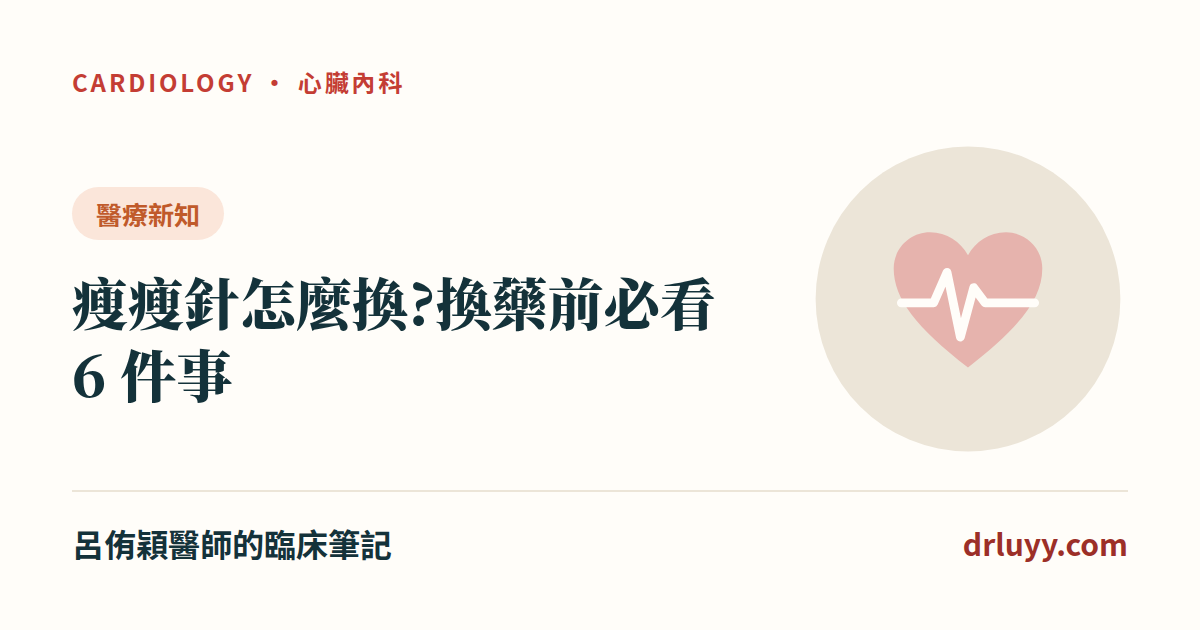
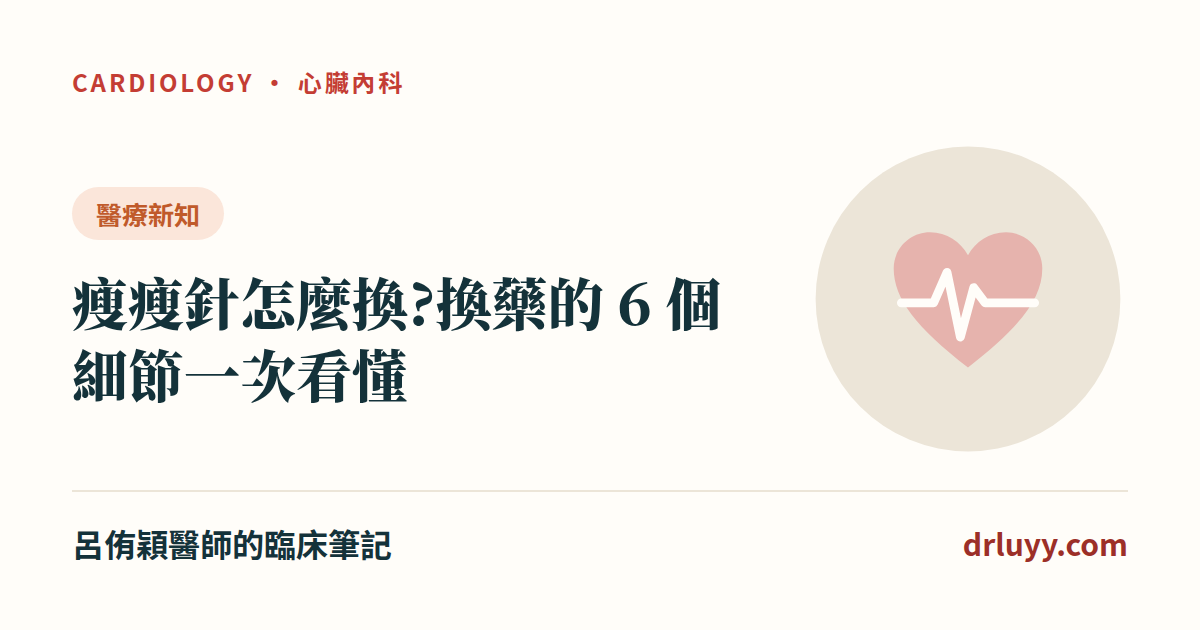
瘦瘦針換藥:改寫為實用細節版(第二版,依呂哥意見;Codex 第二輪查核後修正;gen-figure checklist 加 compact 選項)— build 全站同步

Changed region(s): [[0.0617, 0.5429, 0.3392, 0.6635], [0.4625, 0.4222, 0.6167, 0.5429]]

diff --git a/posts/glp1-switching.html b/posts/glp1-switching.html
@@ -3,13 +3,13 @@
 <head>
 <meta charset="UTF-8">
 <meta name="viewport" content="width=device-width, initial-scale=1.0">
-<title>瘦瘦針怎麼換?換藥前必看 6 件事 — 台安醫院心臟內科。呂侑穎醫師。臨床筆記</title>
-<meta name="description" content="猛健樂、週纖達、善纖達可以換來換去嗎?這兩年換瘦瘦針的人越來越多,原因可能是價格、缺貨、副作用或效果不夠。但換藥不是換個牌子那麼簡單:換藥日期要由醫師安排,耐受良好的人多半不需要空窗期;劑量不能直接對換,起始劑量和加量依台灣仿單;停藥一段時間可能要重新加量;腸胃副作用可能再出現;糖尿病病人合併胰島素">
+<title>瘦瘦針怎麼換?換藥的 6 個細節一次看懂 — 台安醫院心臟內科。呂侑穎醫師。臨床筆記</title>
+<meta name="description" content="猛健樂、週纖達、善纖達怎麼換?換瘦瘦針最常遇到的細節一次整理:舊藥用得好時,每日換每週在停藥隔天開始、每週換每週在原本下一劑那天打新藥,通常不需空窗;因副作用換藥要等症狀緩解、從最低劑量開始;劑量不能照網路對照表直接換;各藥漏打規定不同(週纖達、胰妥讚 5 天,猛健樂 4 天,善纖達超過三日要重新起">
 <meta name="author" content="呂侑穎醫師">
 <meta name="robots" content="index, follow">
 <link rel="canonical" href="https://drluyy.com/posts/glp1-switching.html">
-<meta property="og:title" content="瘦瘦針怎麼換?換藥前必看 6 件事">
-<meta property="og:description" content="猛健樂、週纖達、善纖達可以換來換去嗎?這兩年換瘦瘦針的人越來越多,原因可能是價格、缺貨、副作用或效果不夠。但換藥不是換個牌子那麼簡單:換藥日期要由醫師安排,耐受良好的人多半不需要空窗期;劑量不能直接對換,起始劑量和加量依台灣仿單;停藥一段時間可能要重新加量;腸胃副作用可能再出現;糖尿病病人合併胰島素">
+<meta property="og:title" content="瘦瘦針怎麼換?換藥的 6 個細節一次看懂">
+<meta property="og:description" content="猛健樂、週纖達、善纖達怎麼換?換瘦瘦針最常遇到的細節一次整理:舊藥用得好時,每日換每週在停藥隔天開始、每週換每週在原本下一劑那天打新藥,通常不需空窗;因副作用換藥要等症狀緩解、從最低劑量開始;劑量不能照網路對照表直接換;各藥漏打規定不同(週纖達、胰妥讚 5 天,猛健樂 4 天,善纖達超過三日要重新起">
 <meta property="og:type" content="article">
 <meta property="og:url" content="https://drluyy.com/posts/glp1-switching.html">
 <meta property="og:locale" content="zh_TW">
@@ -21,7 +21,7 @@
 <meta name="twitter:image" content="https://drluyy.com/img/og/glp1-switching.png">
 <link rel="icon" href="../favicon.svg" type="image/svg+xml">
 <script type="application/ld+json">
-{"@context":"https://schema.org","@type":"MedicalWebPage","headline":"瘦瘦針怎麼換?換藥前必看 6 件事","name":"瘦瘦針怎麼換?換藥前必看 6 件事","description":"猛健樂、週纖達、善纖達可以換來換去嗎?這兩年換瘦瘦針的人越來越多,原因可能是價格、缺貨、副作用或效果不夠。但換藥不是換個牌子那麼簡單:換藥日期要由醫師安排,耐受良好的人多半不需要空窗期;劑量不能直接對換,起始劑量和加量依台灣仿單;停藥一段時間可能要重新加量;腸胃副作用可能再出現;糖尿病病人合併胰島素","url":"https://drluyy.com/posts/glp1-switching.html","inLanguage":"zh-TW","image":"https://drluyy.com/img/og/glp1-switching.png","author":{"@type":"Person","name":"呂侑穎","jobTitle":"心臟內科醫師","url":"https://drluyy.com/about.html","sameAs":["https://www.tahsda.org.tw/doctors/doctorcard.php?doctorid=058","https://www.threads.com/@aluminum001"]},"publisher":{"@type":"Organization","name":"台安醫院心臟內科。呂侑穎醫師。臨床筆記"},"dateModified":"2026-09-30","mainEntityOfPage":"https://drluyy.com/posts/glp1-switching.html","datePublished":"2026-09-30"}
+{"@context":"https://schema.org","@type":"MedicalWebPage","headline":"瘦瘦針怎麼換?換藥的 6 個細節一次看懂","name":"瘦瘦針怎麼換?換藥的 6 個細節一次看懂","description":"猛健樂、週纖達、善纖達怎麼換?換瘦瘦針最常遇到的細節一次整理:舊藥用得好時,每日換每週在停藥隔天開始、每週換每週在原本下一劑那天打新藥,通常不需空窗;因副作用換藥要等症狀緩解、從最低劑量開始;劑量不能照網路對照表直接換;各藥漏打規定不同(週纖達、胰妥讚 5 天,猛健樂 4 天,善纖達超過三日要重新起","url":"https://drluyy.com/posts/glp1-switching.html","inLanguage":"zh-TW","image":"https://drluyy.com/img/og/glp1-switching.png","author":{"@type":"Person","name":"呂侑穎","jobTitle":"心臟內科醫師","url":"https://drluyy.com/about.html","sameAs":["https://www.tahsda.org.tw/doctors/doctorcard.php?doctorid=058","https://www.threads.com/@aluminum001"]},"publisher":{"@type":"Organization","name":"台安醫院心臟內科。呂侑穎醫師。臨床筆記"},"dateModified":"2026-09-30","mainEntityOfPage":"https://drluyy.com/posts/glp1-switching.html","datePublished":"2026-09-30"}
 </script>
 <link rel="preconnect" href="https://fonts.googleapis.com">
 <link rel="preconnect" href="https://fonts.gstatic.com" crossorigin>
@@ -64,42 +64,29 @@ gtag('config', 'G-BC1Z8X6BQT');
 <a class="back-link" href="../index.html">&larr; 回到全部文章</a>
 <div class="article-head">
 <span class="card-tag news">醫療新知</span>
-<h1>瘦瘦針怎麼換?換藥前必看 6 件事</h1>
+<h1>瘦瘦針怎麼換?換藥的 6 個細節一次看懂</h1>
 <div class="article-meta">
 <span>衛教</span>
 <span>專家共識 + 台灣仿單 + 健保規定</span>
 </div>
 </div>
 <div class="content-card">
-<figure class="article-figure"><a href="../img/fig/glp1-switch-6.png" target="_blank" rel="noopener"><img src="../img/fig/glp1-switch-6.png" alt="瘦瘦針換藥前必看 6 件事:經醫師不要兩種一起打、通常不需空窗期、劑量不能直接對換、停藥後可能要從低劑量重新開始、腸胃副作用可能再出現、糖尿病病人小心低血糖" width="1080" height="1350" loading="lazy"></a><figcaption>一張圖看懂瘦瘦針換藥(點圖看大圖、可存圖分享)</figcaption></figure>
-<div class="article-body">【衛教】瘦瘦針怎麼換?換藥前必看 6 件事
+<figure class="article-figure"><a href="../img/fig/glp1-switch-6.png" target="_blank" rel="noopener"><img src="../img/fig/glp1-switch-6.png" alt="瘦瘦針換藥的 6 個細節:新藥什麼時候開始、劑量不能直接對換、漏打規定各藥不同、腸胃副作用與就醫警訊、糖尿病小心低血糖、換藥前告訴醫師的事" width="1080" height="1350" loading="lazy"></a><figcaption>一張圖看懂瘦瘦針換藥(點圖看大圖、可存圖分享)</figcaption></figure>
+<div class="article-body">【衛教】瘦瘦針怎麼換?換藥的 6 個細節一次看懂
 
 ━━━━━━━━━━━━━━━━━━━━━━━
 
-「醫師,猛健樂缺貨/太貴/副作用太多,我可以換成週纖達嗎?」「我打的針效果停滯了,可以換另一種嗎?」
+「猛健樂太貴,想換回週纖達,要停多久再打?」「換了新針之後又開始想吐,是不是不適合?」「上次那支打到一半停了兩週,新的要從多少開始?」
 
-這兩年門診很常遇到這類問題。GLP-1 受體促效劑(俗稱瘦瘦針、減重針)和同時作用在 GIP 與 GLP-1 的雙效藥物越來越普遍,換藥的人也越來越多——原因可能是價格、缺貨、腸胃副作用、效果不夠,或是血糖需要更好的控制。
+這兩年換瘦瘦針(GLP-1 受體促效劑,以及 GIP/GLP-1 雙效藥物)的人越來越多,原因可能是價格、缺貨、腸胃副作用、效果停滯,或是血糖需要更好的控制。這篇把換藥時真正會遇到的細節整理出來:什麼時候開始新藥、漏打或中斷怎麼辦、副作用什麼時候會來、哪些狀況要馬上就醫。
 
-但換藥不是「換一個牌子」那麼簡單。這篇整理國際專家共識、美國糖尿病學會的建議,以及台灣食藥署核准的仿單,告訴你換藥前要知道的事。
-
-⚠ 先說在前面:這篇是讓你在跟醫師討論時心裡有底,不是自己換藥的教學。這類藥物都是處方藥,換藥一定要由醫師評估和開立。
+資料來源包括國際專家共識、美國糖尿病學會的建議,以及台灣食藥署核准的仿單。要先說明的是:「怎麼換」目前幾乎沒有大型試驗,多半是專家經驗;這類藥物也都是處方藥,新藥還是要透過醫師開立。知道這些細節,可以讓你跟醫師討論時更清楚,換藥時也比較不會踩雷。
 
 ━━━━━━━━━━━━━━━━━━━━━━━
 
-▎先講結論
+▎先認識台灣有哪些
 
-① 換藥一定要經過醫師,而且不要兩種同時打。
-② 換藥日期由醫師安排:耐受良好的人,多半不需要特別的空窗期;如果是因為副作用換藥,可能要等症狀緩解後再開始。
-③ 不同藥物的劑量不能直接對換;起始劑量和加量速度,由醫師依台灣仿單安排。
-④ 停藥一段時間後重新開始,可能要從低劑量重新加量;各藥仿單規定不同,請問醫師。
-⑤ 換藥後腸胃副作用可能再出現一次;有不適先聯絡醫療團隊,出現警訊要立刻就醫。
-⑥ 有打胰島素或吃磺醯尿素類降血糖藥的糖尿病病人,換藥後要特別留意低血糖,相關藥物的劑量要讓醫師調整。
-
-━━━━━━━━━━━━━━━━━━━━━━━
-
-▎台灣有哪些?先搞清楚你打的是哪一種
-
-依食藥署許可證資料,目前台灣核准的這類藥物包括(學名/台灣商品名):
+依食藥署許可證資料(學名/台灣商品名):
 
 【核准用於體重控制】
 ・semaglutide(每週一次針劑):週纖達
@@ -110,75 +97,113 @@ gtag('config', 'G-BC1Z8X6BQT');
 ・semaglutide:胰妥讚(每週一次針劑)、瑞倍適(口服錠)
 ・liraglutide:胰妥善(每天一次針劑)
 ・dulaglutide:易週糖(每週一次針劑)
-・胰島素加 lixisenatide 的複方:爽胰達(含有胰島素,不能直接套用本文的換藥概念;更換時須由醫師另外安排胰島素和血糖監測計畫)
+・胰島素加 lixisenatide 的複方:爽胰達(含胰島素,換藥邏輯不同,本文的原則不能直接套用)
 
-要注意:
-・同一種成分可能有不同產品和適應症。例如週纖達和胰妥讚都是 semaglutide,但核准的用途不同。
-・健保:減重用途不給付;第二型糖尿病用途,部分品項在符合健保規定的條件下才給付(例如已用過其他降血糖藥物、糖化血色素仍偏高等)。
+健保:減重用途不給付;第二型糖尿病用途,部分品項在符合健保規定時給付。
 
 ━━━━━━━━━━━━━━━━━━━━━━━
 
-▎換藥前必看 6 件事
+▎細節 1:新藥什麼時候開始打?
 
-【① 一定要經過醫師,不要兩種一起打】
-・這類藥物都是處方藥,食藥署也提醒民眾不要從網路或來路不明的管道購買。
-・猛健樂的台灣許可證寫明:「不建議與其他含有 tirzepatide 的藥品或任何升糖素類似胜肽-1(GLP-1)受體促效劑併用。」換藥是「換」,不是「加」。
-・換藥前,醫師也會重新確認你是否仍適合新藥,並逐項核對該產品的禁忌;例如部分產品禁用於本人或家族有甲狀腺髓質癌病史,或患有第二型多發性內分泌腫瘤症候群的人。
+國際專家共識和實務指南的做法(都是專家經驗,不是大型試驗結果):
 
-【② 換藥日期由醫師安排】
-這類藥物多半作用時間長。國際專家共識的經驗是:如果舊藥耐受良好,醫師可能安排在「舊藥原定下一次給藥的時間」開始新藥,通常不需要特別的空窗期。但這不代表舊藥已經完全從體內排除,換藥期間仍要留意效果和副作用。
-・例外:如果是因為腸胃副作用太嚴重才換藥,專家建議先停藥、等症狀緩解後,再從低劑量開始。
-・台灣仿單並沒有提供適用於不同成分產品之間的統一換藥流程(部分同成分、不同劑型的產品另有說明),所以實際怎麼銜接,由醫師依你用的藥、最後一次用藥時間和副作用來安排。
+【舊藥用得好好的,只是想換(價格、缺貨、效果)】
+・從「每天打」換成「每週打」(例如善纖達 → 週纖達或猛健樂):停掉每日針劑的「隔天」,開始打新的每週針劑。
+・從「每週打」換成另一種「每週打」(例如猛健樂 ↔ 週纖達):在舊藥「原本下一劑該打的那一天」,改打新藥,也就是最後一劑舊藥後 7 天。
+・通常不需要另外空一段時間。這類藥物作用時間長,空太久反而會讓治療中斷;美國糖尿病學會也提醒,停藥後體重常會回升。
 
-【③ 劑量不能直接「對換」】
-不同藥物的劑量沒有簡單的換算公式。網路上流傳的「對照表」多半是作者的經驗意見,不是仿單規定;直接用「相當劑量」換過去,可能讓腸胃副作用加重。
-・美國糖尿病學會建議:減重藥物要從低劑量開始,依耐受度和效果逐步增加。
-・專家共識的經驗:之前腸胃副作用明顯的人,新藥多從最低劑量開始,加量也要放慢;用舊藥不到一個月的人,通常當作第一次使用來處理。
-・起始劑量、加量間隔和維持劑量,都要符合該產品、適應症和年齡族群的台灣仿單規定,再由醫師依效果和耐受度評估。不要因為舊藥用得很順,就自己加快加量。
+【因為腸胃副作用受不了才換】
+・先停藥,等噁心、嘔吐等症狀緩解後,再從新藥的最低劑量開始,加量也要放慢。
 
-【④ 停藥一段時間,可能要從低劑量重新開始】
-各藥仿單對「漏打」和「重新開始」的規定不一樣(以下為台灣仿單原文重點):
-・善纖達:距最近一次注射已超過三日,應重新以 0.6 mg 起始劑量開始,並依劑量遞增時程重新投與。
-・週纖達:錯過一劑,應在 5 天內儘快施打,超過 5 天則跳過;如果錯過了更多劑量,重新開始時應考慮減少起始劑量。
-・胰妥讚:錯過一劑,5 天內儘快施打,超過 5 天則跳過。
-・猛健樂:錯過一劑,4 天(96 小時)內盡快施打,超過 4 天則跳過。
-・仿單沒有寫的部分,例如停藥好幾週之後該從哪個劑量開始,醫師會依產品、原本的劑量、中斷時間和先前的耐受度,評估是否需要重新逐步加量。發現漏打或中斷了,先聯絡醫師確認處方,不要自己決定劑量。
-
-【⑤ 腸胃副作用可能再出現一次】
-・就算舊藥已經適應得很好,換成新藥後,噁心、便祕、食慾改變等腸胃症狀可能會暫時再出現。
-・兩項第二型糖尿病病人的研究中,換藥後出現腸胃不良事件的比例分別約 13%(20/152)和 12%(19/164);研究的藥物和換藥方式不同,不能直接推估個人的風險。
-・先知道這件事,比較不會把「預期中的副作用」誤以為「新藥沒效」;但有不舒服時,請聯絡醫療團隊評估是否需要調整,不要自己硬撐或自己停藥。
-・這些情況要立刻就醫:
- - 持續的嚴重腹痛,可能延伸到背部,不論有沒有嘔吐:可能是胰臟炎。猛健樂的台灣仿單寫明,懷疑胰臟炎時應立即停藥並聯絡醫療照護人員。
- - 嚴重嘔吐、腹瀉,吃不下、喝不下:可能脫水,嚴重時可能造成急性腎損傷。
-
-【⑥ 糖尿病病人:特別小心低血糖】
-・如果你同時有打胰島素,或吃磺醯尿素類等促胰島素分泌的降血糖藥,換成作用較強或劑量不同的藥物後,血糖可能降得比較快。
-・台灣仿單也提醒:併用這些藥物時低血糖風險可能增加,可以調降磺醯尿素類藥物或胰島素的劑量來減少風險。
-・換藥後和每次加量後,請比平常更常量血糖;要不要調降胰島素或其他降血糖藥,由醫師決定,不要自己增減。
-・連續血糖監測可以幫忙看出夜間等容易忽略的低血糖。
+【注意】
+・換藥是「換」不是「加」:新舊藥不要同時打。猛健樂的台灣許可證寫明,不建議與其他含 tirzepatide 的藥品或任何 GLP-1 受體促效劑併用。
+・如果舊藥才用不到一個月,專家建議新藥就當作「第一次使用」來處理,從起始劑量開始。
 
 ━━━━━━━━━━━━━━━━━━━━━━━
 
-▎換藥期間,還有這些要注意
+▎細節 2:劑量為什麼不能「直接對換」?
 
-・回診:美國糖尿病學會建議,開始使用減重藥物的前 3 個月至少每個月追蹤一次;換藥期間也建議密切回診,確認安全、耐受度和效果。
-・目標:有美國肥胖醫學專家建議,換藥期間可以先把「體重穩定」當作短期目標,不急著繼續往下瘦;可以跟你的醫師討論。
-・避孕:使用口服荷爾蒙避孕藥的人,換成猛健樂前要告訴醫師。猛健樂的台灣仿單提醒,它可能降低口服避孕藥的效果,建議改用非口服的避孕方法,或在開始治療後、以及每次加量後,加用屏障避孕法(例如保險套)4 週。
-・高風險族群:曾有胰臟炎、膽囊疾病、用藥很複雜,或年紀大、身體較虛弱的人,換藥要更謹慎,並留意脫水、吃得太少、肌肉和骨質流失。
-・胰臟炎警訊:持續劇烈腹痛(可能延伸到背部),合併或不合併嘔吐,要立刻就醫。
-・不要用來路不明的產品:美國糖尿病學會不建議使用非正規的調配產品;台灣食藥署也提醒,網購瘦瘦針可能買到假藥或劣藥。
+網路上常看到「A 藥幾毫克等於 B 藥幾毫克」的對照表,但:
+・這些表都是作者的經驗意見。一篇常被引用的換藥指南就直接寫明,它的「相當劑量」完全是作者的判斷。
+・不同藥物的作用強度、腸胃副作用的強度都不一樣,直接用「相當劑量」換過去,可能讓腸胃副作用一下子變得很重。
+・美國糖尿病學會的原則是:減重藥物從低劑量開始,依耐受度和效果逐步增加;早期對高劑量不耐受的人,多在低劑量停留久一點會比較好。
+・維持劑量不一定是最高劑量,但要符合該產品、適應症和年齡族群在台灣仿單的「維持劑量」規定;起始或加量階段的劑量,不一定可以拿來長期維持。
+
+所以新藥從哪個劑量開始、多久加一次,要依該藥的台灣仿單,跟醫師一起決定;你可以提供的關鍵資訊是:舊藥打到哪個劑量、用了多久、最後一劑是哪天、以前的副作用有多嚴重。
+
+━━━━━━━━━━━━━━━━━━━━━━━
+
+▎細節 3:漏打、中斷了怎麼辦?各藥規定不一樣
+
+以下是台灣仿單的規定重點,換藥前後都用得到:
+
+・以下每週針劑的補打期限,都是從「原本該打的時間」開始算;善纖達的「超過三日」則是從「最後一次實際注射」開始算。
+・週纖達(每週):錯過一劑,5 天內儘快補打;超過 5 天就跳過,按原訂時間打下一劑。如果錯過了更多劑量,重新開始時應考慮減少起始劑量。
+・胰妥讚(每週):錯過一劑,5 天內儘快補打;超過 5 天就跳過。
+・猛健樂(每週):錯過一劑,4 天(96 小時)內儘快補打;超過 4 天就跳過,在原本預定的日期打下一劑。
+・善纖達(每天):錯過一劑且延遲未超過 12 小時,儘快補打;距離下一劑不到 12 小時就不要補打,也不要用多打一劑或加量的方式彌補。距最近一次注射已超過三日,要重新以 0.6 mg 起始劑量開始,並依加量時程重新加上來。
+・想改變固定的每週注射日:週纖達仿單寫兩次注射應至少間隔 3 天(超過 72 小時);猛健樂仿單寫兩劑之間至少間隔 3 天(72 小時)。這是「改注射日」的規定,跟漏打後補打是兩回事。
+
+⚠ 最常見的地雷:停藥好幾週之後,直接從停藥前的高劑量打回去。中斷一段時間後,身體對腸胃副作用的耐受度可能已經下降,醫師通常會評估是否需要從較低劑量重新加量。
+
+━━━━━━━━━━━━━━━━━━━━━━━
+
+▎細節 4:換藥後的腸胃副作用
+
+・就算舊藥已經適應得很好,換成新藥後,噁心、便祕、食慾改變等腸胃症狀可能會暫時再出現,尤其是剛開始和每次加量後。
+・研究數字:兩項第二型糖尿病病人的研究中,換藥後出現腸胃不良事件的比例分別約 13% 和 12%(研究的藥物和換藥方式不同,只能當參考)。
+・這通常是預期中的反應,不代表新藥沒效;專家也提醒,不要把預期中的副作用誤以為治療失敗而自己停掉。
+・要注意補充水分:仿單提醒,腸胃副作用可能造成脫水,應採取預防措施避免體液不足;脫水嚴重時可能導致急性腎損傷。
+・如果腸胃症狀嚴重或持續,請聯絡醫療團隊,可能需要調整劑量或放慢加量。
+
+【這些情況要立刻就醫】
+・持續的嚴重腹痛,可能延伸到背部,不論有沒有嘔吐:可能是胰臟炎,應停藥並立即就醫(猛健樂台灣仿單寫明懷疑胰臟炎時應立即停用)。
+・嚴重嘔吐或腹瀉,吃不下、喝不下,尿量明顯變少:可能脫水。
+・懷疑膽囊問題(例如右上腹持續疼痛):這類藥物有膽結石、膽囊炎的風險,仿單提醒懷疑膽囊疾病時要聯絡醫療照護人員評估。
+
+━━━━━━━━━━━━━━━━━━━━━━━
+
+▎細節 5:有糖尿病、打胰島素的人,要特別注意低血糖
+
+・如果你同時打胰島素,或吃磺醯尿素類等促胰島素分泌的降血糖藥,換成新的腸泌素藥物後,血糖可能降得比較快。
+・台灣仿單提醒:併用時低血糖風險可能增加,可以考慮調降磺醯尿素類或胰島素的劑量來降低風險(胰島素宜逐步調整)。換藥前,醫師會依你目前的血糖、糖化血色素、低血糖紀錄和新藥的起始方式,評估要不要先調降;不是每個人都需要減量,也不要自己估算。
+・反過來,換藥初期血糖也可能暫時升高(例如新藥從低劑量開始、效果還沒上來)。如果血糖持續超出你的目標,請聯絡醫療團隊調整,不要自己追加新舊針劑。
+・換藥後和每次加量後,要比平常更常量血糖;美國專家建議至少前 4 週每天量。有連續血糖監測的人,可以特別留意夜間。
+・出現發抖、冒冷汗、心悸、頭暈、很餓等低血糖症狀:如果人清醒、能安全吞嚥,依醫師教的方式補充含糖食物並再量一次血糖,之後回報醫師調整藥物。
+・如果意識不清、抽搐或無法安全吞嚥:不可餵食或灌飲料,立即撥打 119;有醫師開立升糖素的人,由受過指導的家屬使用。
+
+━━━━━━━━━━━━━━━━━━━━━━━
+
+▎細節 6:換藥前,這些要先告訴醫師
+
+・目前打的藥、劑量、用了多久。
+・最後一劑是哪一天(決定新藥什麼時候開始)。
+・以前加量時的腸胃副作用有多嚴重(決定新藥的起始劑量和加量速度)。
+・有沒有打胰島素或吃其他降血糖藥(決定要不要先調降、怎麼量血糖)。
+・是否已懷孕、可能懷孕或正在備孕:猛健樂的台灣仿單寫明,懷孕期間不建議減重,用於體重控制的人確認懷孕時應停用;有糖尿病的人要同步安排懷孕期間的血糖治療。
+・有沒有吃口服避孕藥:猛健樂的台灣仿單提醒,它可能降低口服避孕藥的效果,建議改用非口服避孕方法,或在開始治療後、以及每次加量後,加用屏障避孕法(例如保險套)4 週。
+・近期有沒有要做需要麻醉或深度鎮靜的手術、檢查:仿單提醒這類藥物會延遲胃排空,術前要先告知醫療人員。
+・有沒有胰臟炎、膽囊疾病病史;本人或家族有沒有甲狀腺髓質癌、第二型多發性內分泌腫瘤症候群(部分產品的禁忌)。
+
+━━━━━━━━━━━━━━━━━━━━━━━
+
+▎換藥期間的目標
+
+・有美國肥胖醫學專家建議,換藥期間先把「體重穩定」當作短期目標,不急著繼續往下瘦;等新藥穩定後再追求進一步的效果。
+・美國糖尿病學會建議,開始使用減重藥物的前 3 個月至少每個月追蹤一次;換藥期間也建議在一個月左右回診,確認安全、耐受度和效果。
+・年紀較大、身體較虛弱的人,換藥期間要特別留意吃得太少、脫水,以及肌肉流失。
+・不要從網路或來路不明的管道購買:食藥署提醒,瘦瘦針是處方藥,網購可能買到假藥或劣藥。
 
 ━━━━━━━━━━━━━━━━━━━━━━━
 
 ▎重點帶走
 
-① 換藥一定要經過醫師,不要兩種一起打,也不要自己網購。
-② 換藥日期由醫師安排;耐受良好的人多半不需要空窗期。
-③ 劑量不能直接對換,起始劑量和加量速度依台灣仿單、由醫師安排。
-④ 停藥一段時間後,可能要從低劑量重新開始;各藥規定不同。
-⑤ 腸胃副作用可能暫時再出現;持續劇烈腹痛、嚴重吐瀉要立刻就醫。
-⑥ 糖尿病病人合併胰島素或磺醯尿素類藥物時,要多量血糖,由醫師調整劑量。
+① 舊藥耐受良好時:每日換每週,在最後一劑的隔天開始;每週換每週,在最後一劑後 7 天(原本下一劑那天)打新藥。通常不需要另外空窗。
+② 因為副作用換藥:等症狀緩解,再從最低劑量開始。
+③ 劑量不能照網路對照表直接換;起始劑量依台灣仿單和你的用藥經驗決定。
+④ 漏打規定各藥不同(從原定注射時間算,週纖達、胰妥讚 5 天內、猛健樂 4 天內補打,超過就跳過;善纖達距最後一針超過三日要重新起始);中斷很久別直接打回高劑量。
+⑤ 換藥後腸胃副作用可能再來一次:多喝水;持續劇烈腹痛、嚴重吐瀉要立刻就醫。
+⑥ 打胰島素或吃磺醯尿素類的糖尿病病人:換藥前跟醫師討論是否調降劑量,前幾週多量血糖;低血糖意識不清時不可餵食,立即撥 119。
 
 ━━━━━━━━━━━━━━━━━━━━━━━
 
@@ -193,7 +218,7 @@ gtag('config', 'G-BC1Z8X6BQT');
 
 ━━━━━━━━━━━━━━━━━━━━━━━
 
-⚠ 本文依國際專家共識與實務指南、美國糖尿病學會肥胖照護標準、台灣食藥署核准仿單與許可證資料,以及健保署給付規定整理;換藥時機與起始劑量目前主要依據專家經驗,尚缺直接比較的臨床試驗。本文為衛教說明,不是個別處方;不同產品的劑量與用法以台灣核准仿單為準。是否換藥、怎麼換、劑量多少,請由你的醫師評估決定。
+⚠ 本文依國際專家共識與實務指南、美國糖尿病學會肥胖照護標準、台灣食藥署核准仿單與許可證資料,以及健保署給付規定整理。換藥時機與起始劑量目前主要依據專家經驗,尚缺直接比較的臨床試驗;各產品的劑量與用法以台灣核准仿單為準。本文為衛教說明,不是個別處方;新藥的開立與劑量請與你的醫師討論決定。
 
 參考文獻:
 ・Lamberg E. Navigating GLP-1 switches: a guide for primary care. Medscape, 2026-09-29(醫學新聞,引述多位美國專家意見).
@@ -238,7 +263,7 @@ gtag('config', 'G-BC1Z8X6BQT');
 <section class="comments-wrap">
 <h2 class="comments-title">留言與回饋</h2>
 <p class="comments-note">歡迎在下方留下你的想法或問題，留言經審核後才會公開顯示。<strong>提醒：本區不提供個別診療，個人病情請就醫或掛號諮詢。</strong></p>
-<div id="cusdis_thread" data-host="https://cusdis.com" data-app-id="0587d292-27ab-4082-bc76-15c0cd50293d" data-page-id="https://drluyy.com/posts/glp1-switching.html" data-page-url="https://drluyy.com/posts/glp1-switching.html" data-page-title="瘦瘦針怎麼換?換藥前必看 6 件事"></div>
+<div id="cusdis_thread" data-host="https://cusdis.com" data-app-id="0587d292-27ab-4082-bc76-15c0cd50293d" data-page-id="https://drluyy.com/posts/glp1-switching.html" data-page-url="https://drluyy.com/posts/glp1-switching.html" data-page-title="瘦瘦針怎麼換?換藥的 6 個細節一次看懂"></div>
 <script async defer src="https://cusdis.com/js/cusdis.es.js"></script>
 </section>
 

diff --git a/index.html b/index.html
@@ -198,8 +198,8 @@ gtag('config', 'G-BC1Z8X6BQT');
 <a class="card" href="posts/glp1-switching.html">
 <div class="card-header">
 <span class="card-tag news">醫療新知</span>
-<div class="card-title">瘦瘦針怎麼換?換藥前必看 6 件事</div>
-<div class="card-subtitle">猛健樂、週纖達、善纖達可以換來換去嗎?這兩年換瘦瘦針的人越來越多,原因可能是價格、缺貨、副作用或效果不夠。但換藥不是換個牌子那麼簡單:換藥日期要由醫師安排,耐受良好的人多半不需要空窗期;劑量不能直接對換,起始劑量和加量依台灣仿單;停藥一段時間可能要重新加量;腸胃副作用可能再出現;糖尿病病人合併胰島素或磺醯尿素類藥物要特別小心低血糖。本文依國際專家共識、美國糖尿病學會建議與台灣仿單整理,換藥請務必由醫師評估。</div>
+<div class="card-title">瘦瘦針怎麼換?換藥的 6 個細節一次看懂</div>
+<div class="card-subtitle">猛健樂、週纖達、善纖達怎麼換?換瘦瘦針最常遇到的細節一次整理:舊藥用得好時,每日換每週在停藥隔天開始、每週換每週在原本下一劑那天打新藥,通常不需空窗;因副作用換藥要等症狀緩解、從最低劑量開始;劑量不能照網路對照表直接換;各藥漏打規定不同(週纖達、胰妥讚 5 天,猛健樂 4 天,善纖達超過三日要重新起始);換藥後腸胃副作用可能再來,要多喝水、認得胰臟炎警訊;打胰島素或吃磺醯尿素類的糖尿病病人要小心低血糖。依國際專家共識、美國糖尿病學會與台灣仿單整理。</div>
 <div class="card-meta"><span>衛教</span><span>專家共識 + 台灣仿單 + 健保規定</span></div>
 </div>
 <div class="card-footer"><span class="read-btn">閱讀全文 →</span></div>

diff --git a/posts.html b/posts.html
@@ -71,8 +71,8 @@ gtag('config', 'G-BC1Z8X6BQT');
 <a class="card" href="posts/glp1-switching.html">
 <div class="card-header">
 <span class="card-tag news">醫療新知</span>
-<div class="card-title">瘦瘦針怎麼換?換藥前必看 6 件事</div>
-<div class="card-subtitle">猛健樂、週纖達、善纖達可以換來換去嗎?這兩年換瘦瘦針的人越來越多,原因可能是價格、缺貨、副作用或效果不夠。但換藥不是換個牌子那麼簡單:換藥日期要由醫師安排,耐受良好的人多半不需要空窗期;劑量不能直接對換,起始劑量和加量依台灣仿單;停藥一段時間可能要重新加量;腸胃副作用可能再出現;糖尿病病人合併胰島素或磺醯尿素類藥物要特別小心低血糖。本文依國際專家共識、美國糖尿病學會建議與台灣仿單整理,換藥請務必由醫師評估。</div>
+<div class="card-title">瘦瘦針怎麼換?換藥的 6 個細節一次看懂</div>
+<div class="card-subtitle">猛健樂、週纖達、善纖達怎麼換?換瘦瘦針最常遇到的細節一次整理:舊藥用得好時,每日換每週在停藥隔天開始、每週換每週在原本下一劑那天打新藥,通常不需空窗;因副作用換藥要等症狀緩解、從最低劑量開始;劑量不能照網路對照表直接換;各藥漏打規定不同(週纖達、胰妥讚 5 天,猛健樂 4 天,善纖達超過三日要重新起始);換藥後腸胃副作用可能再來,要多喝水、認得胰臟炎警訊;打胰島素或吃磺醯尿素類的糖尿病病人要小心低血糖。依國際專家共識、美國糖尿病學會與台灣仿單整理。</div>
 <div class="card-meta"><span>衛教</span><span>專家共識 + 台灣仿單 + 健保規定</span></div>
 </div>
 <div class="card-footer"><span class="read-btn">閱讀全文 →</span></div>

diff --git a/news.html b/news.html
@@ -73,8 +73,8 @@ gtag('config', 'G-BC1Z8X6BQT');
 <a class="card" href="posts/glp1-switching.html">
 <div class="card-header">
 <span class="card-tag news">醫療新知</span>
-<div class="card-title">瘦瘦針怎麼換?換藥前必看 6 件事</div>
-<div class="card-subtitle">猛健樂、週纖達、善纖達可以換來換去嗎?這兩年換瘦瘦針的人越來越多,原因可能是價格、缺貨、副作用或效果不夠。但換藥不是換個牌子那麼簡單:換藥日期要由醫師安排,耐受良好的人多半不需要空窗期;劑量不能直接對換,起始劑量和加量依台灣仿單;停藥一段時間可能要重新加量;腸胃副作用可能再出現;糖尿病病人合併胰島素或磺醯尿素類藥物要特別小心低血糖。本文依國際專家共識、美國糖尿病學會建議與台灣仿單整理,換藥請務必由醫師評估。</div>
+<div class="card-title">瘦瘦針怎麼換?換藥的 6 個細節一次看懂</div>
+<div class="card-subtitle">猛健樂、週纖達、善纖達怎麼換?換瘦瘦針最常遇到的細節一次整理:舊藥用得好時,每日換每週在停藥隔天開始、每週換每週在原本下一劑那天打新藥,通常不需空窗;因副作用換藥要等症狀緩解、從最低劑量開始;劑量不能照網路對照表直接換;各藥漏打規定不同(週纖達、胰妥讚 5 天,猛健樂 4 天,善纖達超過三日要重新起始);換藥後腸胃副作用可能再來,要多喝水、認得胰臟炎警訊;打胰島素或吃磺醯尿素類的糖尿病病人要小心低血糖。依國際專家共識、美國糖尿病學會與台灣仿單整理。</div>
 <div class="card-meta">
 <span>衛教</span>
 <span>專家共識 + 台灣仿單 + 健保規定</span>

diff --git a/scripts/gen-figure.js b/scripts/gen-figure.js
@@ -68,7 +68,7 @@ font-size:25px;line-height:1.5}
 <div class="tagline">CARDIOLOGY · 心臟內科</div>
 <h1>${esc(f.title)}</h1>
 ${f.subtitle ? `<div class="sub">${esc(f.subtitle)}</div>` : ''}
-<div class="list">${items}</div>
+${f.compact ? '<style>.list{gap:9px!important;margin-top:16px!important}.item{padding:12px 24px!important}.note{margin-top:5px!important}</style>' : ''}<div class="list">${items}</div>
 ${f.callout ? `<div class="callout">${f.callout.map(esc).join('<br>').replace(/\*\*(.+?)\*\*/g, '<b>$1</b>')}</div>` : ''}
 <div class="foot">
   <div class="src">${esc(f.sources)}</div>
